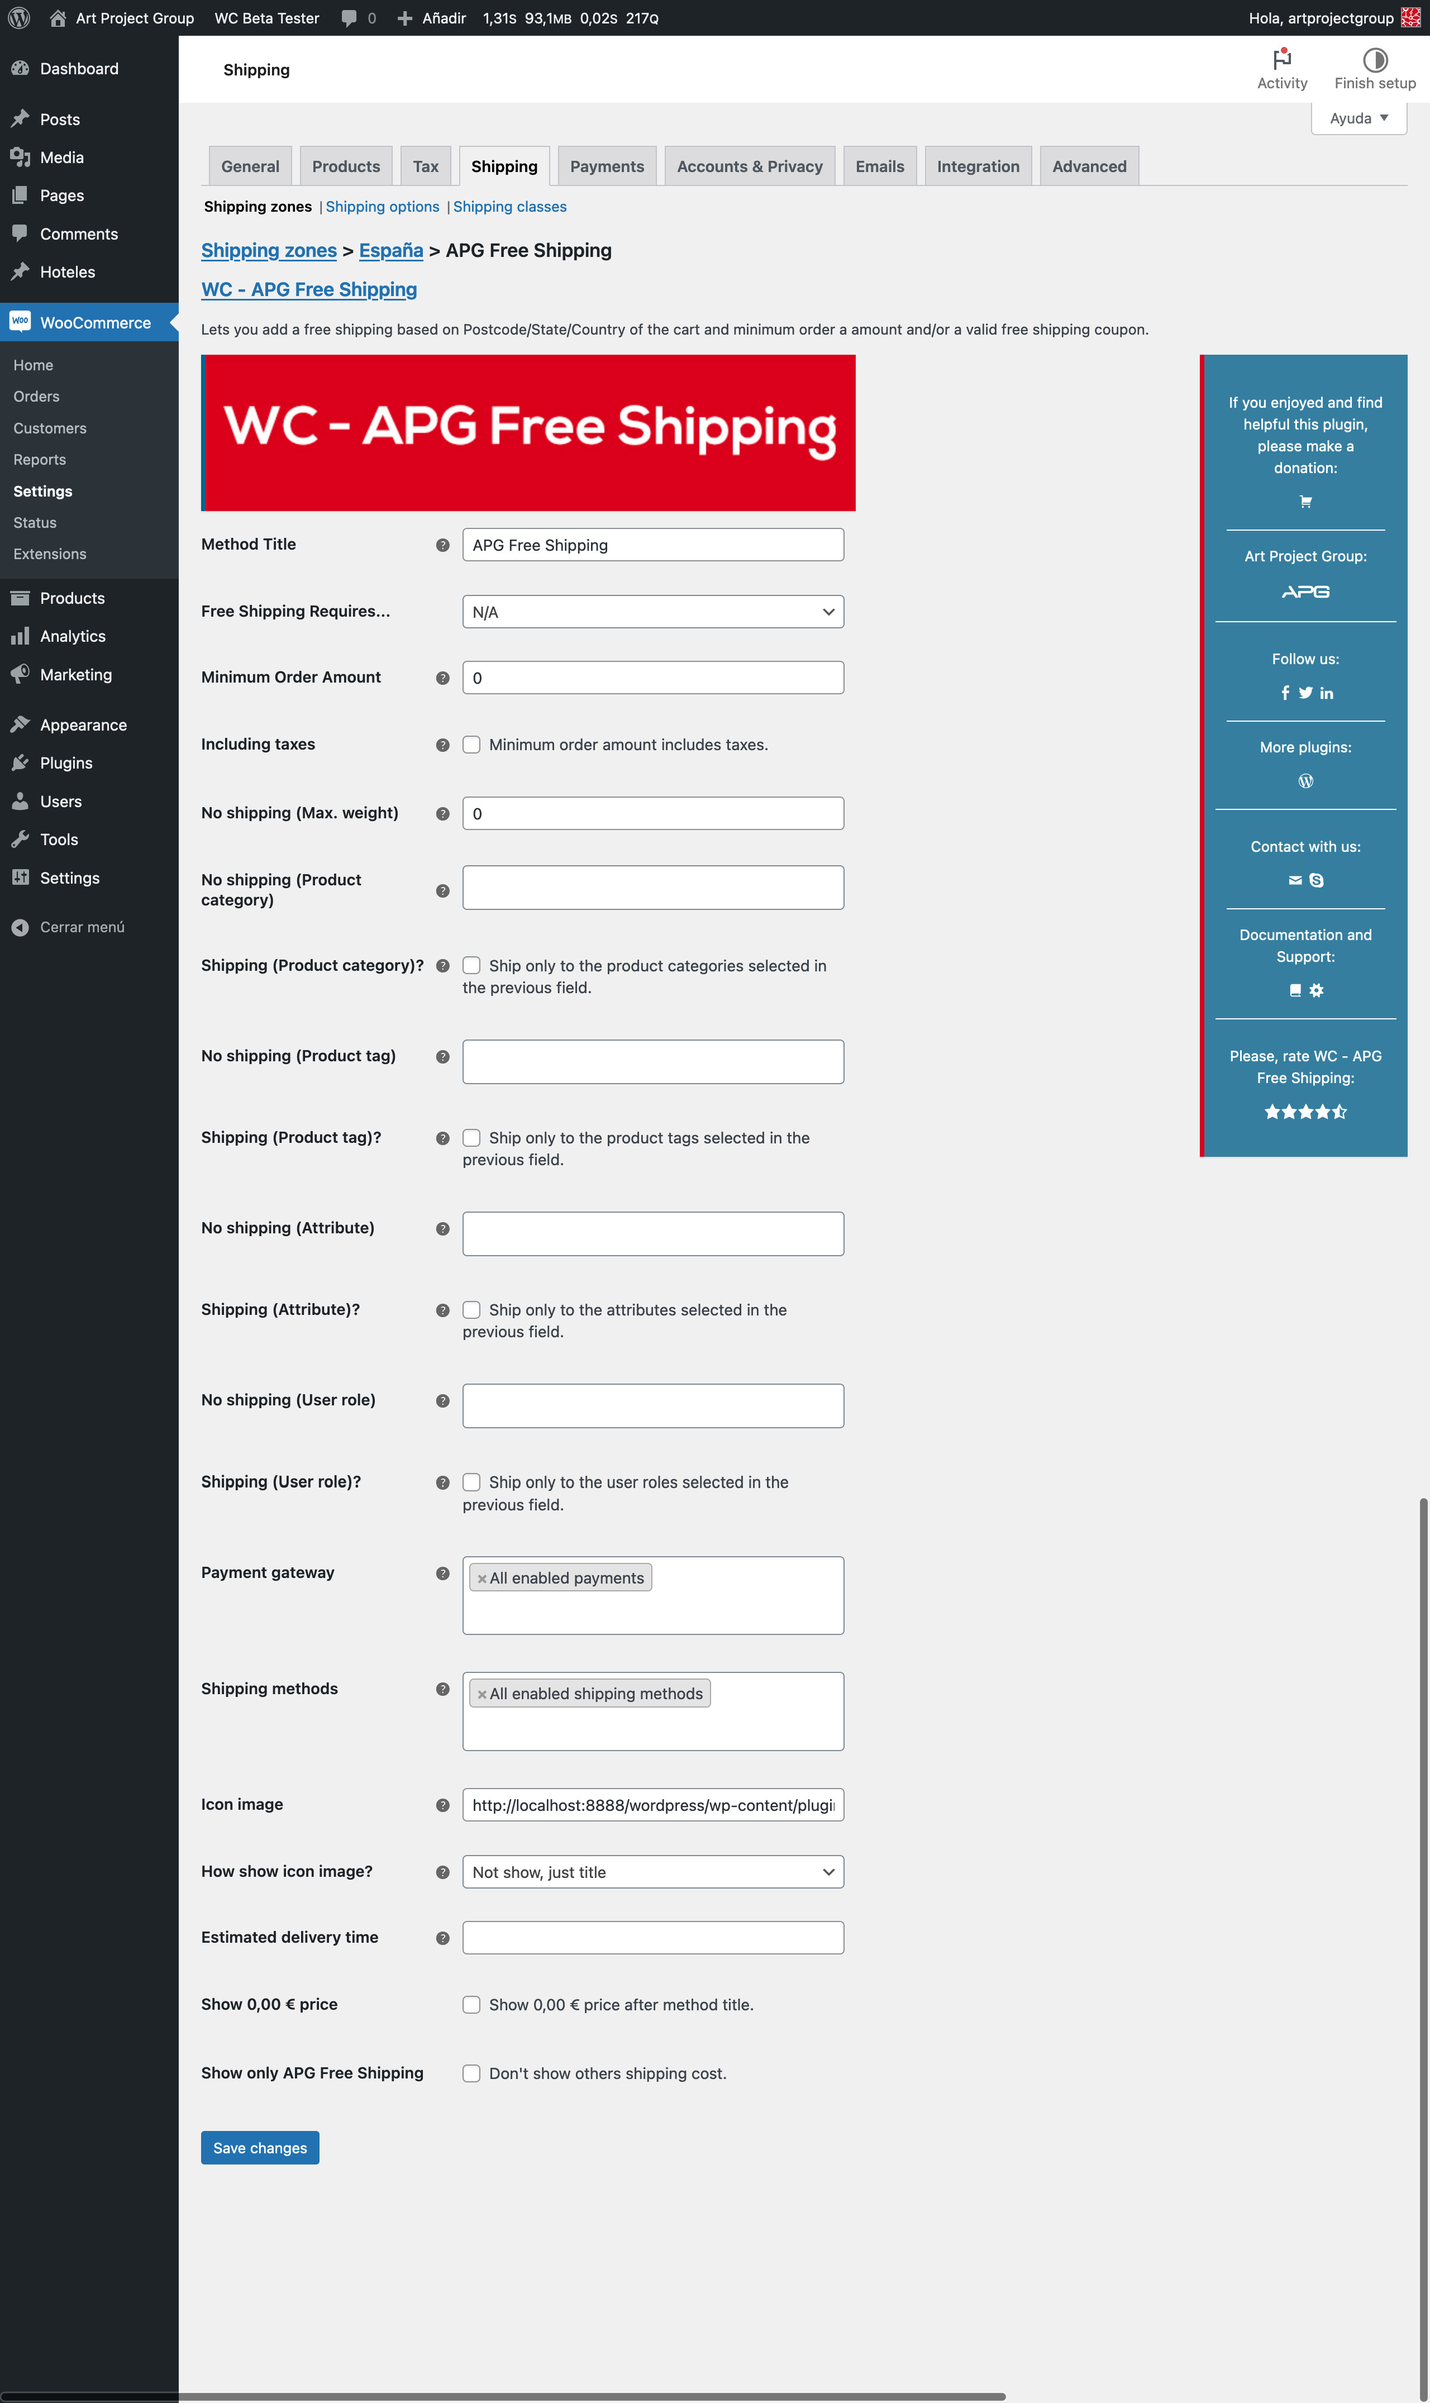
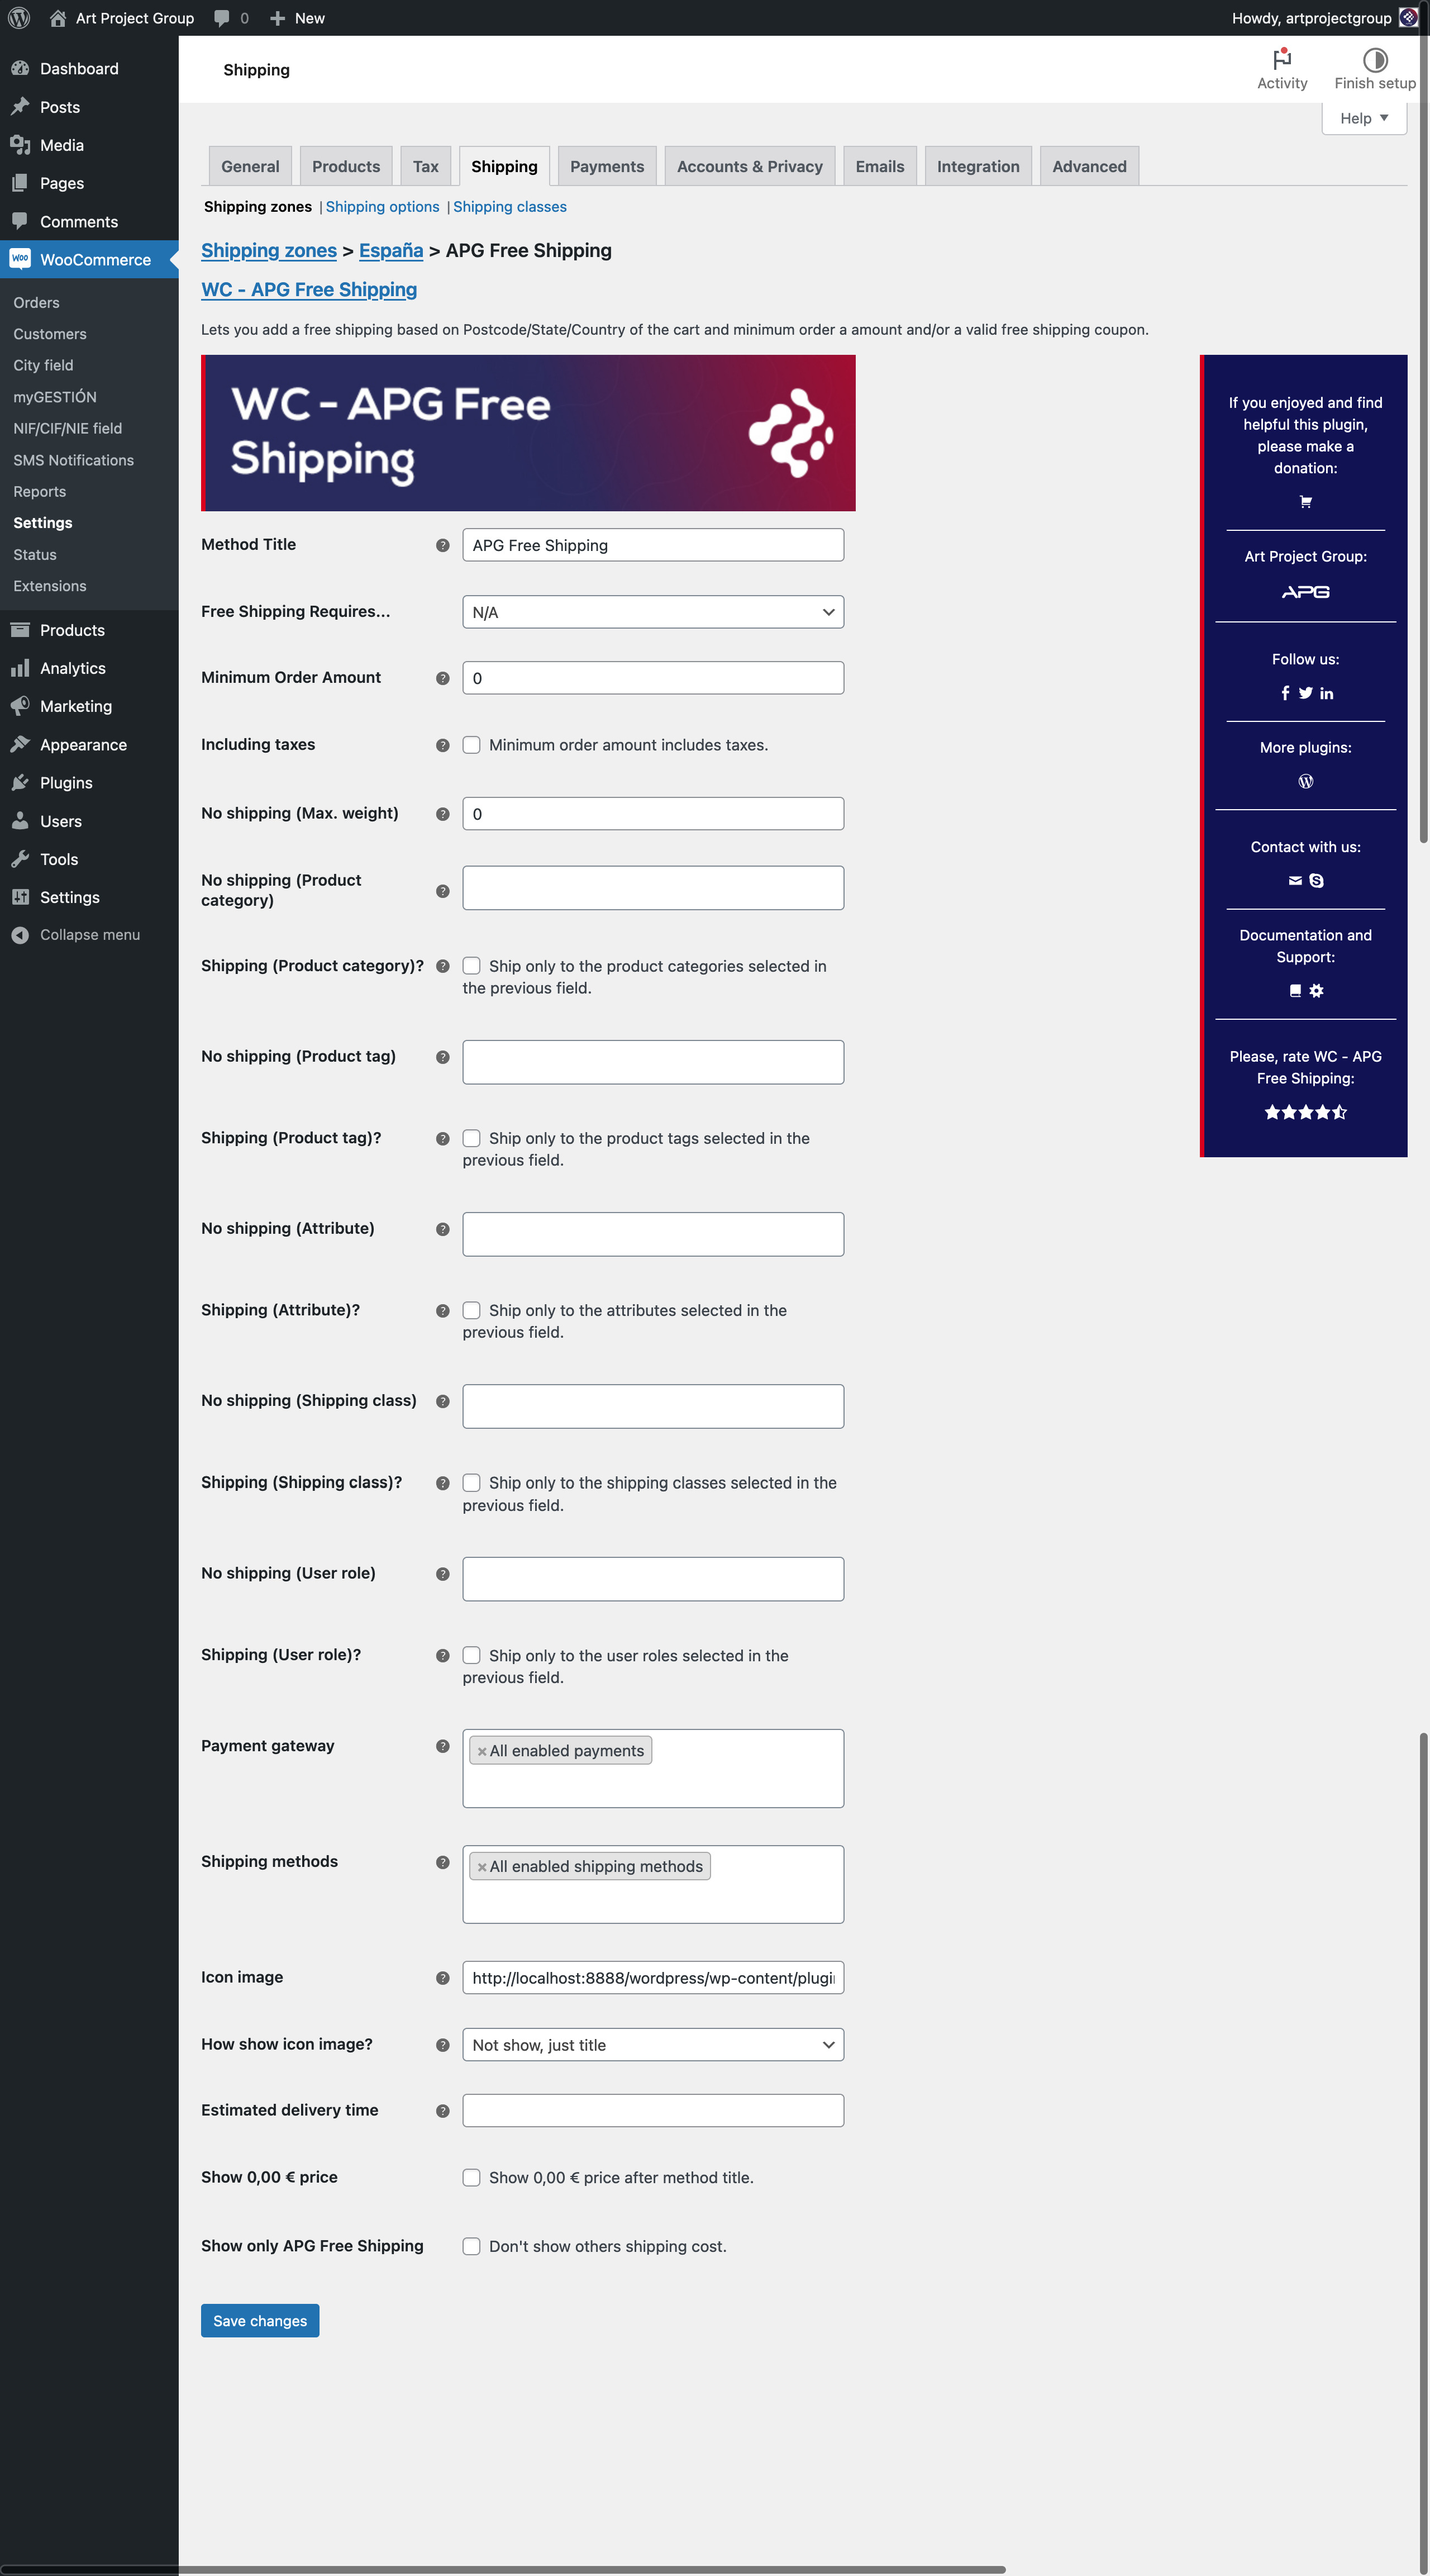
Versión 2.7.0.5

diff --git a/assets/css/style.css b/assets/css/style.css
@@ -11,8 +11,7 @@ table.apg-table, .cabecera {
 	max-width: 586px;
 }
 .imagen {
-	border-left: 4px solid #07628c;
-	box-shadow: 0 1px 1px 0 rgba(0, 0, 0, 0.1);
+	border-left: 4px solid #d9001d;
 	max-width: 100%;
 	display: block;
 }
@@ -38,14 +37,13 @@ div.informacion .estrellas .star-rating .star {
 	font-size: 15px;
 }
 div.informacion {
-	background-color: rgba(7,98,140,0.8);
+	background-color: #101254;
 	float: right;
 	padding: 10px;
 	width: 15%;
 	max-width: 220px;
 	text-align: center;
 	border-left: 4px solid #d9001d;
-	box-shadow: 0 1px 1px 0 rgba(0, 0, 0, 0.1);
 	color: #fff;
 }
 div.informacion div.fila {

diff --git a/apg-free-shipping.php b/apg-free-shipping.php
@@ -1,7 +1,7 @@
 <?php
 /*
 Plugin Name: WC - APG Free Shipping
-Version: 2.7.0.4
+Version: 2.7.0.5
 Plugin URI: https://wordpress.org/plugins/woocommerce-apg-free-postcodestatecountry-shipping/
 Description: Add to WooCommerce a free shipping based on the order postcode, province (state) and country of customer's address and minimum order a amount and/or a valid free shipping coupon. Created from <a href="https://profiles.wordpress.org/artprojectgroup/" target="_blank">Art Project Group</a> <a href="https://wordpress.org/plugins/woocommerce-apg-weight-and-postcodestatecountry-shipping/" target="_blank"><strong>WC - APG Weight Shipping</strong></a> plugin and the original WC_Shipping_Free_Shipping class from <a href="https://wordpress.org/plugins/woocommerce/" target="_blank"><strong>WooCommerce - excelling eCommerce</strong></a>.
 Author URI: https://artprojectgroup.es/

diff --git a/readme.md b/readme.md
@@ -9,7 +9,7 @@ Requires at least: 3.8
 
 Tested up to: 6.2
 
-Stable tag: 2.7.0.4
+Stable tag: 2.7.0.5
 
 WC requires at least: 2.6
 
@@ -92,6 +92,11 @@ Si necesitas ayuda para configurar o instalar **WC - APG Free Shipping**, **Art 
 *En ningún caso **Art Project Group** proporciona ningún tipo de soporte técnico gratuito.*
 
 ## Changelog
+### 2.7.0.5
+* Actualización de cabecera.
+* Actualización de hoja de estilo.
+* Actualización de captura de pantalla.
+
 ### 2.7.0.4
 * Corregido un problema de compatibilidad con el plugin CTT Express.
 
